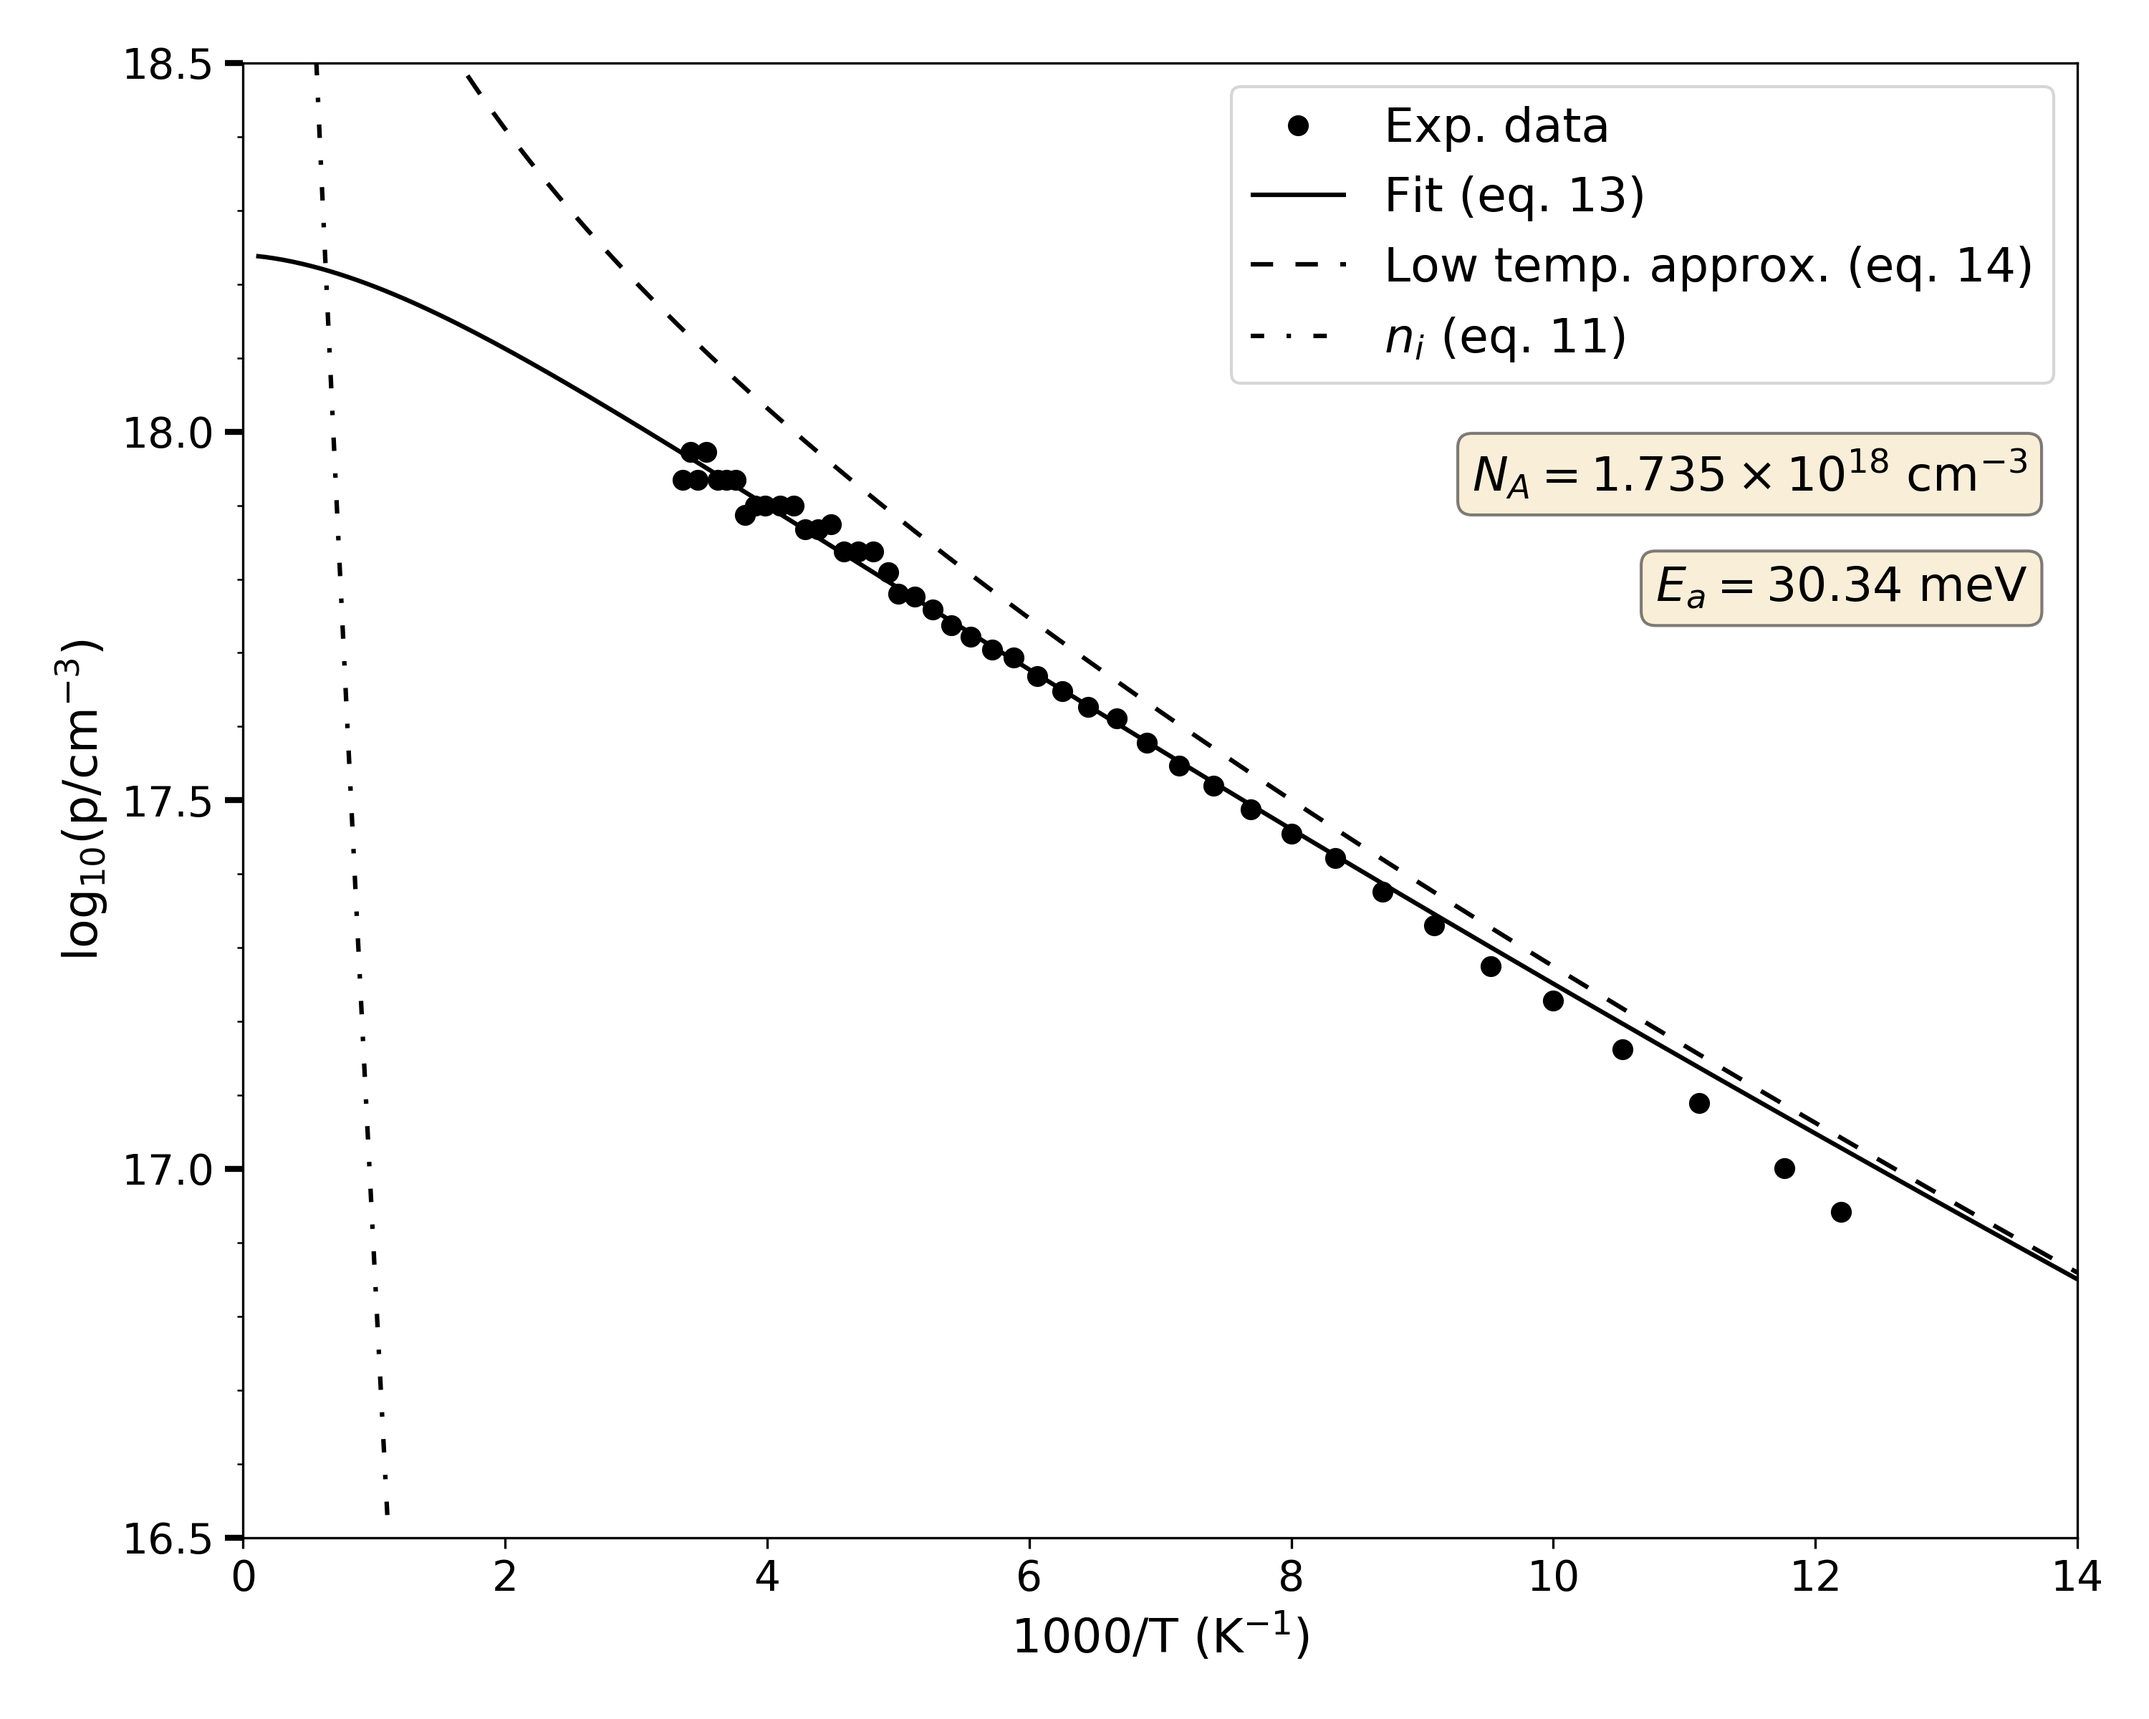
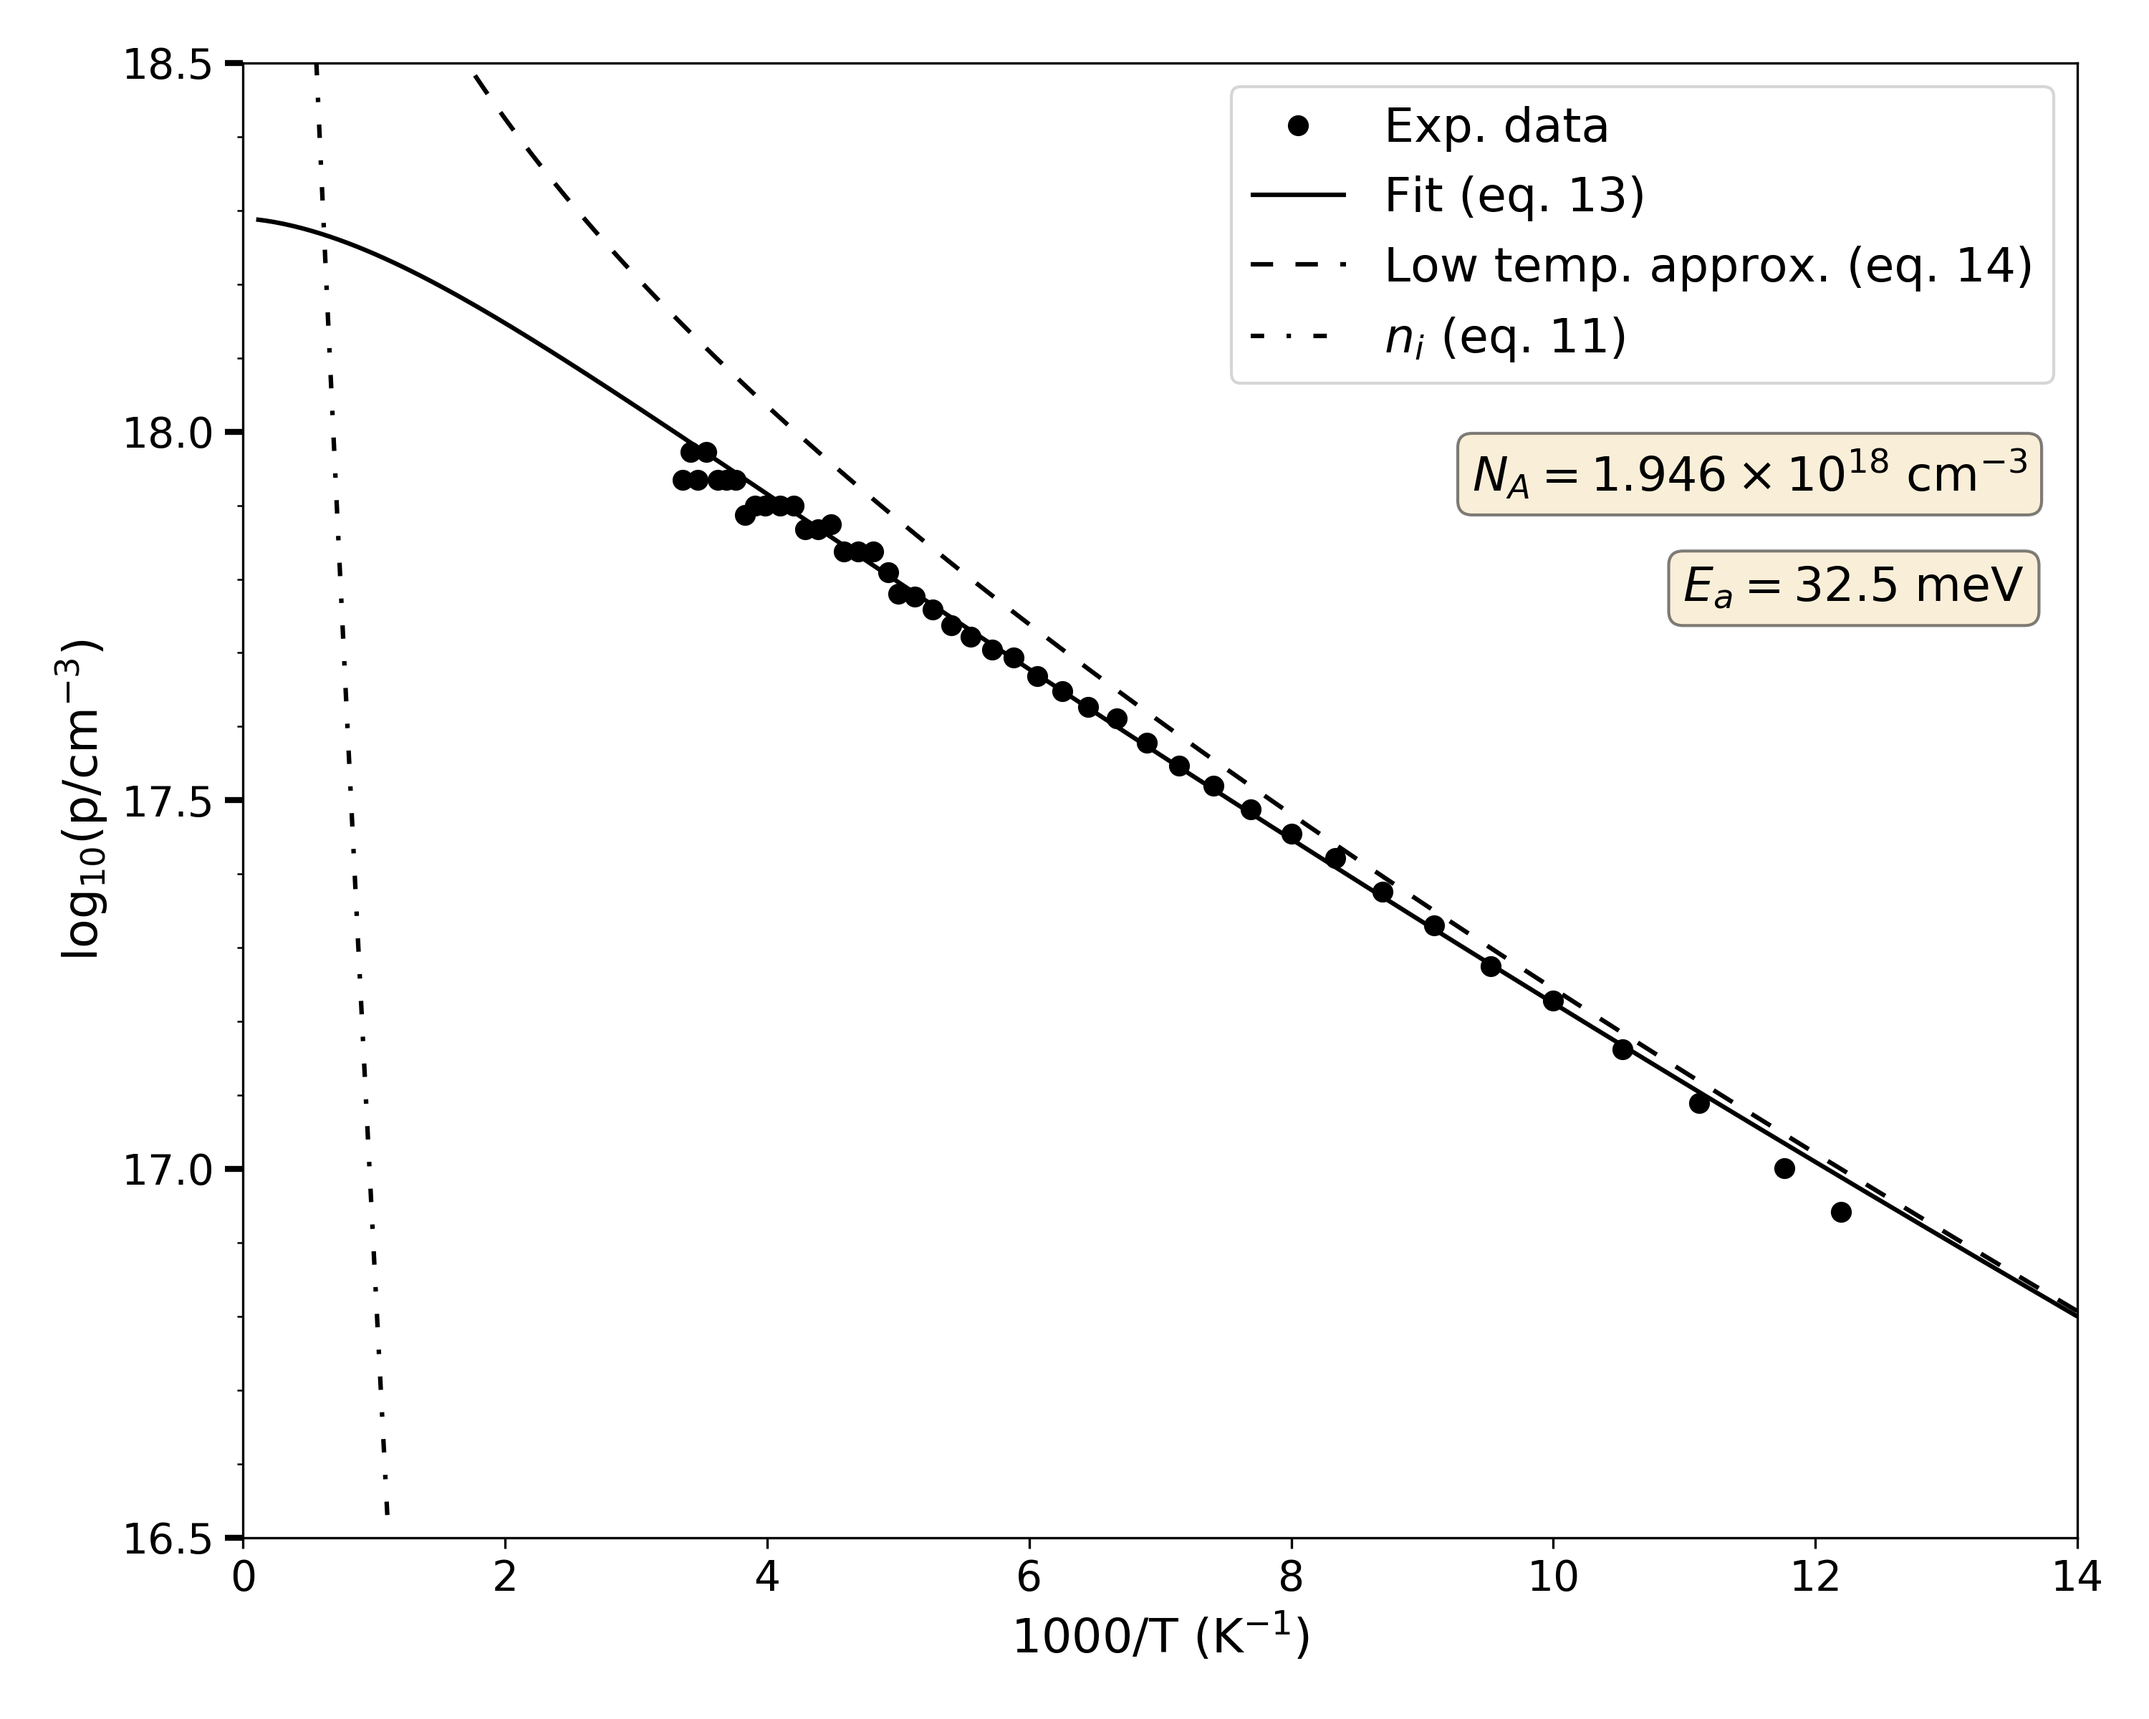
[Hall Effect] Change a bit fit

diff --git a/Hall/report/report.tex b/Hall/report/report.tex
@@ -473,8 +473,8 @@ We were able to measure these four values from \SI{82}{\kelvin} to \SI{200}{\kel
 In Figure \ref{fig:carrier_density} we plot the the carrier density $p$ against the inverse of the temperature. A fit using equation~\eqref{eq:p_final} was used to determine the values of $N_A$ and $E_a$:
 
 \begin{align*}
-N_A&=\SI{1.735e18}{\centi\meter^{-3}}\\
-E_a&=\SI{4.861e-21}{\joule}=\SI{30.34}{\milli\eV}
+N_A&=\SI{1.946e18}{\centi\meter^{-3}}\\
+E_a&=\SI{5.212e-21}{\joule}=\SI{32.5}{\milli\eV}
 \end{align*}
 
 \begin{figure}[H]
@@ -495,7 +495,7 @@ In Figure \ref{fig:hall_mobility} we plot the mobility against the temperature. 
 
 \section{Conclusions}
 
-Dependency of both carrier density $p$ and mobility $\mu$ with temperature has been observed for a Silicon semiconductor doped with Boron (p-type). Hall effect was used to obtain $p$, and $\mu$ was computed by also measuring the resistivity $\rho$ using the van der Pauw method. Our measurements from \SIrange{82}{200}{\kelvin} were combined with the ones from other group from \SIrange{200}{300}{\kelvin} (see Appendix~\ref{app:dataset}) in order to obtain the total concentration of acceptors $N_A=\SI{1.735e18}{\centi\meter^{-3}}$ and the ionization energy $E_a=\SI{30.34}{\milli\eV}$ of the sample.
+Dependency of both carrier density $p$ and mobility $\mu$ with temperature has been observed for a Silicon semiconductor doped with Boron (p-type). Hall effect was used to obtain $p$, and $\mu$ was computed by also measuring the resistivity $\rho$ using the van der Pauw method. Our measurements from \SIrange{82}{200}{\kelvin} were combined with the ones from other group from \SIrange{200}{300}{\kelvin} (see Appendix~\ref{app:dataset}) in order to obtain the total concentration of acceptors $N_A=\SI{1.946e18}{\centi\meter^{-3}}$ and the ionization energy $E_a=\SI{32.5}{\milli\eV}$ of the sample.
 
 
 \nocite{*}
